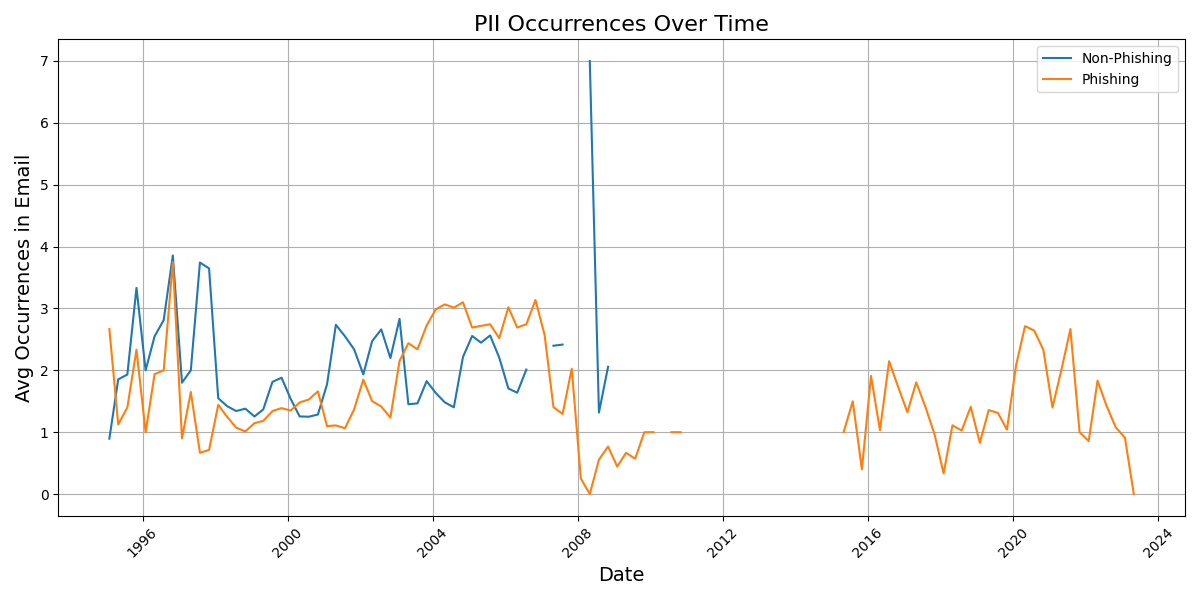
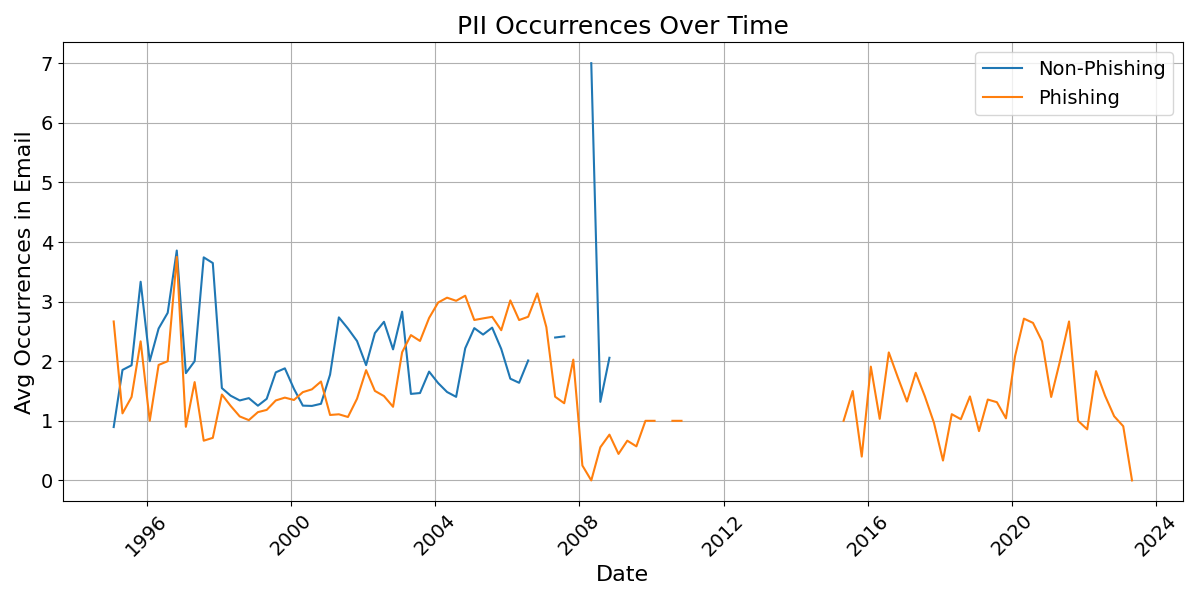
updated code and figs for better visibility on final report

diff --git a/emotion_feature/plot_emotion.py b/emotion_feature/plot_emotion.py
@@ -21,7 +21,7 @@ df['date'] = pd.to_datetime(df['date'])  # Ensure 'date' is in datetime format
 start_date = '1995-01-01'
 end_date = '2024-12-31'
 df = df[(df['date'] >= start_date) & (df['date'] <= end_date)]
-df = df.query('label == 0')
+df = df.query('label == 1')
 
 # Extract year from date
 df['year'] = df['date'].dt.year
@@ -59,17 +59,23 @@ pie_colors = [color_mapping[label] for label in labels]
 ax1.pie(sizes, labels=labels, autopct='%1.1f%%', colors=pie_colors, startangle=90)
 
 # Set the title for ax1
-ax1.set_title("Total Emotional Sentiment Distribution (Non-Phishing Emails)")
+ax1.set_title("Total Emotional Sentiment Distribution (Phishing Emails)", fontsize=14)
 ax1.set_ylabel('')  # Hide y-label for a cleaner look
+ax1.tick_params(axis='x', labelsize=14)
+ax1.tick_params(axis='y', labelsize=14)
 
 # For the bar chart (ax2), apply the same colors to ensure consistency
 bar_colors = [color_mapping[label] for label in yearly_distribution.columns]
 # The second plot (e.g., bar chart) will go on ax2 as before
 yearly_distribution_percent.plot(kind='bar', stacked=True, color=bar_colors, ax=ax2)
-ax2.set_title("Emotional Sentiment Distribution by Year (Non-Phishing Emails)")
-ax2.set_xlabel("Year")
-ax2.set_ylabel("Percentage of Emails")
+ax2.set_title("Emotional Sentiment Distribution by Year (Phishing Emails)",fontsize=18)
+ax2.set_xlabel("Year",fontsize=16)
+ax2.set_ylabel("Percentage of Emails",fontsize=16)
 ax2.tick_params(axis='x', rotation=45)
+ax2.tick_params(axis='x', labelsize=14)
+ax2.tick_params(axis='y', labelsize=14)
+ax2.legend(fontsize=14)
+
 
 # Improve layout
 plt.tight_layout()

diff --git a/pii_feature/plot_pii.py b/pii_feature/plot_pii.py
@@ -45,11 +45,12 @@ plt.plot(df_spam['date'], df_spam['PII Count'], label='Phishing')
 #chatgpt_release_date = '2022-11-30'  # Use the specific release date
 #plt.axvline(x=pd.to_datetime(chatgpt_release_date), color='red', linestyle='--', label='ChatGPT Release')
 
-plt.title('PII Occurrences Over Time', fontsize=16)
-plt.xlabel('Date', fontsize=14)
-plt.ylabel('Avg Occurrences in Email', fontsize=14)
-plt.xticks(rotation=45)
-plt.legend()
+plt.title('PII Occurrences Over Time', fontsize=18)
+plt.xlabel('Date', fontsize=16)
+plt.ylabel('Avg Occurrences in Email', fontsize=16)
+plt.xticks(rotation=45, fontsize=14)
+plt.yticks(fontsize=14)
+plt.legend(fontsize=14)
 plt.grid()
 plt.tight_layout()
 
@@ -61,11 +62,11 @@ df_late = df[(df['date'] >= start_date) & (df['date'] <= end_date)]
 df_late.set_index('date', inplace=True)
 df_late = df_late.resample('3M').mean().reset_index()
 plt.plot(df_late['date'], df_late['PII Count'], label='Phishing')
-plt.title('PII Occurrences Over Time')
-plt.xlabel('Date')
-plt.ylabel('Avg Occurrences in Email')
-plt.xticks(rotation=45)
-plt.legend()
+plt.title('PII Occurrences Over Time', fontsize=18)
+plt.xlabel('Date', fontsize=16)
+plt.ylabel('Avg Occurrences in Email', fontsize=16)
+plt.xticks(rotation=45, fontsize=14)
+plt.legend(fontsize=14)
 plt.grid()
 plt.tight_layout()
 plt.show()

diff --git a/contact-info_feature/plot_contact-info.py b/contact-info_feature/plot_contact-info.py
@@ -52,10 +52,12 @@ features = ['URL', 'EMAIL', 'PHONE']
 fig, axs = plt.subplots(1, 3, figsize=(14, 7))
 for i, feature in enumerate(features):
     countplot = sns.countplot(x=feature, hue='label', data=df, palette="viridis", ax=axs[i])
-    axs[i].set_title(f"Presence of {feature} by Label")
-    axs[i].set_xlabel(f"{feature} Presence")
-    axs[i].set_ylabel("Count")
-    axs[i].legend(title="Label", loc="upper right", labels=["non-phishing", "phishing"])
+    axs[i].set_title(f"Presence of {feature} by Label", fontsize=18)
+    axs[i].set_xlabel(f"{feature} Presence", fontsize=16)
+    axs[i].set_ylabel("Count", fontsize=16)
+    axs[i].tick_params(axis='x', labelsize=14)
+    axs[i].tick_params(axis='y', labelsize=14)
+    axs[i].legend(title="Label", loc="upper right", labels=["non-phishing", "phishing"],fontsize=14)
 
 plt.show()
 

diff --git a/ner_feature/plot_ner.py b/ner_feature/plot_ner.py
@@ -45,11 +45,12 @@ plt.plot(df_spam['date'], df_spam['NER Count'], label='Phishing')
 #chatgpt_release_date = '2022-11-30'  # Use the specific release date
 #plt.axvline(x=pd.to_datetime(chatgpt_release_date), color='red', linestyle='--', label='ChatGPT Release')
 
-plt.title('NER Occurrences Over Time', fontsize=16)
-plt.xlabel('Date', fontsize=14)
-plt.ylabel('Avg Occurrences in Email', fontsize=14)
-plt.xticks(rotation=45)
-plt.legend()
+plt.title('NER Occurrences Over Time', fontsize=18)
+plt.xlabel('Date', fontsize=16)
+plt.ylabel('Avg Occurrences in Email', fontsize=16)
+plt.xticks(rotation=45, fontsize=14)
+plt.yticks(fontsize=14)
+plt.legend(fontsize=14)
 plt.grid()
 plt.tight_layout()
 

diff --git a/readability_analysis.py b/readability_analysis.py
@@ -47,7 +47,9 @@ def plot_readability_over_time(time_series_df):
     # plt.xlabel('Date', fontsize=16)
     # plt.ylabel('Time (Seconds)', fontsize=16)
     plt.xticks(rotation=45)
-    plt.legend()
+    plt.legend(fontsize=14)
+    plt.xticks(fontsize=14)
+    plt.yticks(fontsize=14)
     plt.grid()
     plt.tight_layout()
     plt.show()
